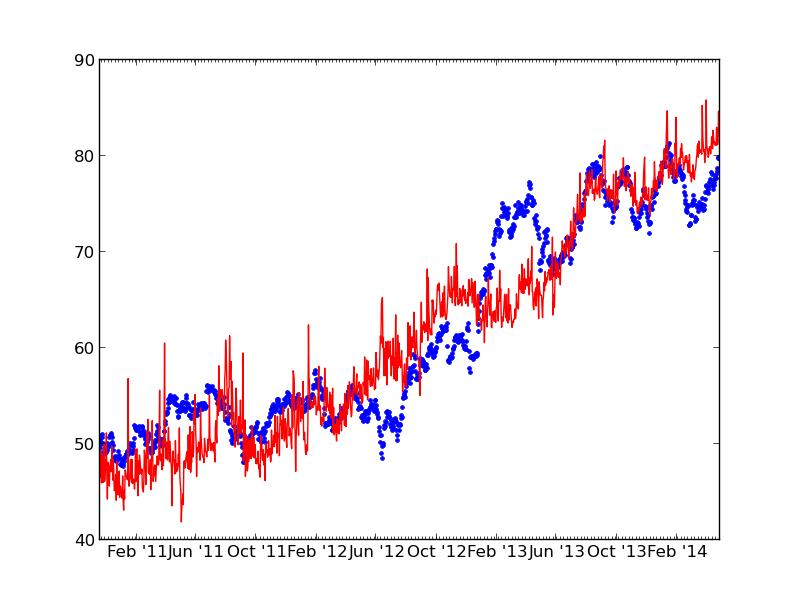
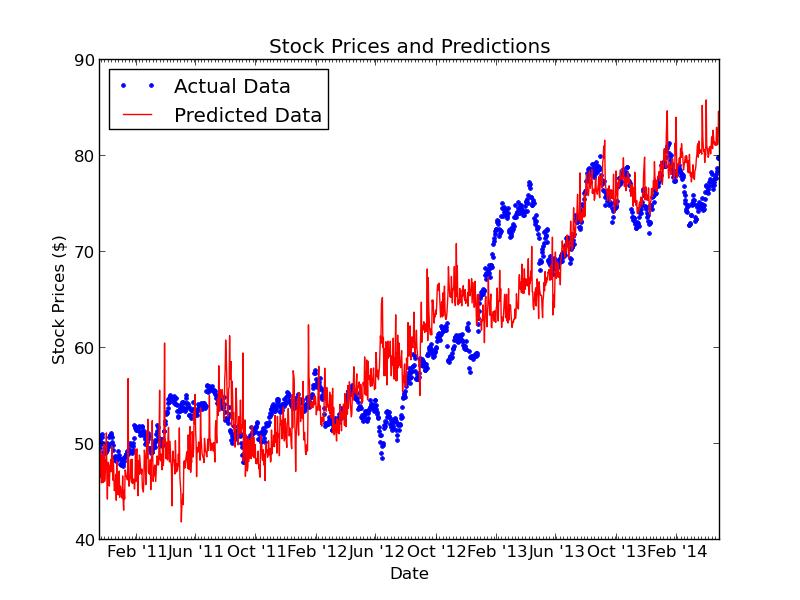
Analyzing

Changed region(s): [[0.125, 0.06, 0.6875, 0.24], [0.0625, 0.39, 0.0938, 0.6], [0.5, 0.93, 0.5312, 0.99]]

diff --git a/templates/index.html b/templates/index.html
@@ -52,7 +52,7 @@
     <div class="jumbotron">
       <div class="container">
         <h1>Stock Tracker</h1>
-        <p>This site is built as an informational tool for the stock market. Our model uses multiple regression and lots of data to attempt to predict trends in stocks and provide those recommendations to you. Just give us a stock ticker, and we'll give you a recommendation for buying or selling the stock in the next week. </p>
+        <p>This site is built as an informational tool for the stock market. Our model uses multivariable linear regression and lots of data to attempt to predict trends in stocks and provide those recommendations to you. Just give us a stock ticker, and we'll give you a recommendation for buying or selling the stock in the next week. </p>
       </div>
     </div>
 

diff --git a/templates/sentiment.html b/templates/sentiment.html
@@ -105,7 +105,7 @@
 	<img id="graph2" border="0" src="{{ url_for('static', filename='prediction.jpg') }}"/>
 	<img id="graph" border="0" src="{{ url_for('static', filename='sentiment.png') }}"/>
 
-	<h3 style="text-align:center; clear:both;">We recommend buying this stock</h3>
+	<h3 style="text-align:center; clear:both;">We recommend {{ recommendation }} this stock. This stock's price is currently {{ current_price }} and we predict that the price tomorrow will be {{ next_price }}. We think that the error in this is {{ error }}%. </h3>
 
 	<p style="text-align:center;" ><a class="btn btn-primary btn-lg" role="button" href="/" id="return">Return to homepage &raquo;</a><p>
 	<div id="bottombar">

diff --git a/website.py b/website.py
@@ -27,24 +27,25 @@ def hello_world():
 def search():
     search = request.form['searchkey']
     try:
-        print 1
         company_name = get_company_name(search)
-        print 2
         search=search.upper()
-        print 1
-    except:
-        pass
-    print Analyze(search)
-    try:
-        print 1
+        data = Analyze(search)
+        current_price = data[0]
+        next_price= data[1]
+        error= data[2]
+        error = error*100
         savefig_twitter_average(company_name)
-        print 1
+        x = next_price/current_price
+        if x>1.02:
+            recommendation = 'buying'
+        elif x>.98:
+            recommendation = 'holding on'
+        else:
+            recommendation = 'selling'
     except:
-        company_name = 'AAAAAAAAAAAAAAAAA'
-        #return redirect('/error')
-        pass
+        return redirect('/error')
     print company_name
-    return render_template('sentiment.html', company_name=company_name, search=search)
+    return render_template('sentiment.html', recommendation=recommendation, company_name=company_name, search=search, current_price=current_price, next_price=next_price, error=error)
     
 @app.route('/about', methods = ['POST', 'GET'])
 def about():
@@ -55,6 +56,5 @@ def error():
     return render_template('error.html')
     
 if __name__ == "__main__":
-    print Analyze('WMT')
     app.run()
     

diff --git a/Model/AlgorithmLimited.py b/Model/AlgorithmLimited.py
@@ -70,12 +70,16 @@ def MR(A,b,A_full,b_full,par):
 	monthsFmt = DateFormatter("%b '%y")
 
 	fig, ax = plt.subplots()
-	ax.plot_date(dates2,b_full, '.')
-	ax.plot_date(dates2,predicted, 'r-')
+	ax.plot_date(dates2,b_full, '.', label='Actual Data')
+	ax.plot_date(dates2,predicted, 'r-', label='Predicted Data')
 	ax.xaxis.set_major_locator(months)
 	ax.xaxis.set_major_formatter(monthsFmt)
 	ax.xaxis.set_minor_locator(mondays)
 	ax.autoscale_view()
+        plt.xlabel('Date')
+        plt.ylabel('Stock Prices ($)')
+        plt.title('Stock Prices and Predictions')
+	plt.legend(loc=0)
 	
 	try:
 		plt.savefig('static/prediction.jpg')
